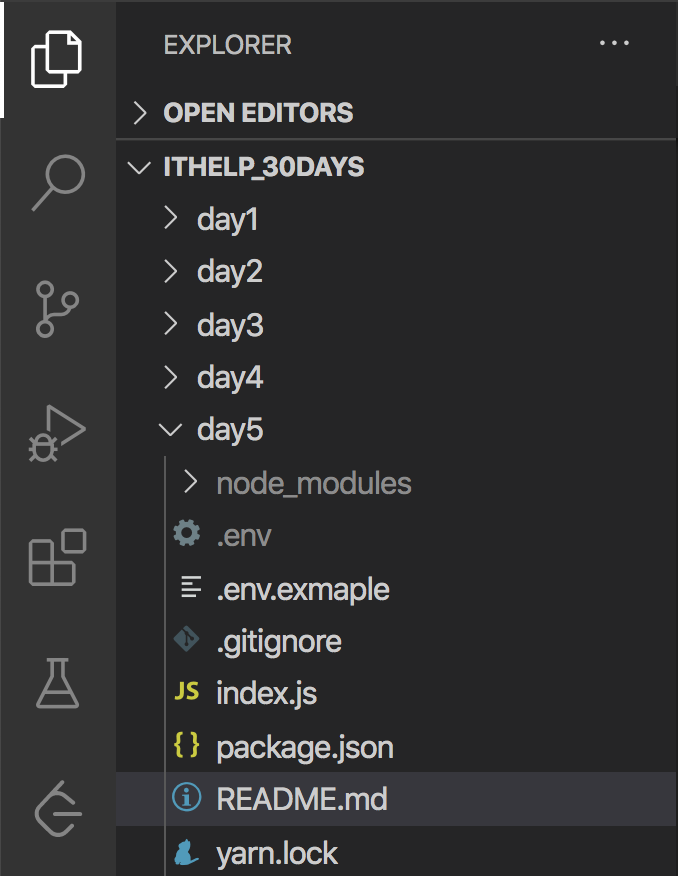
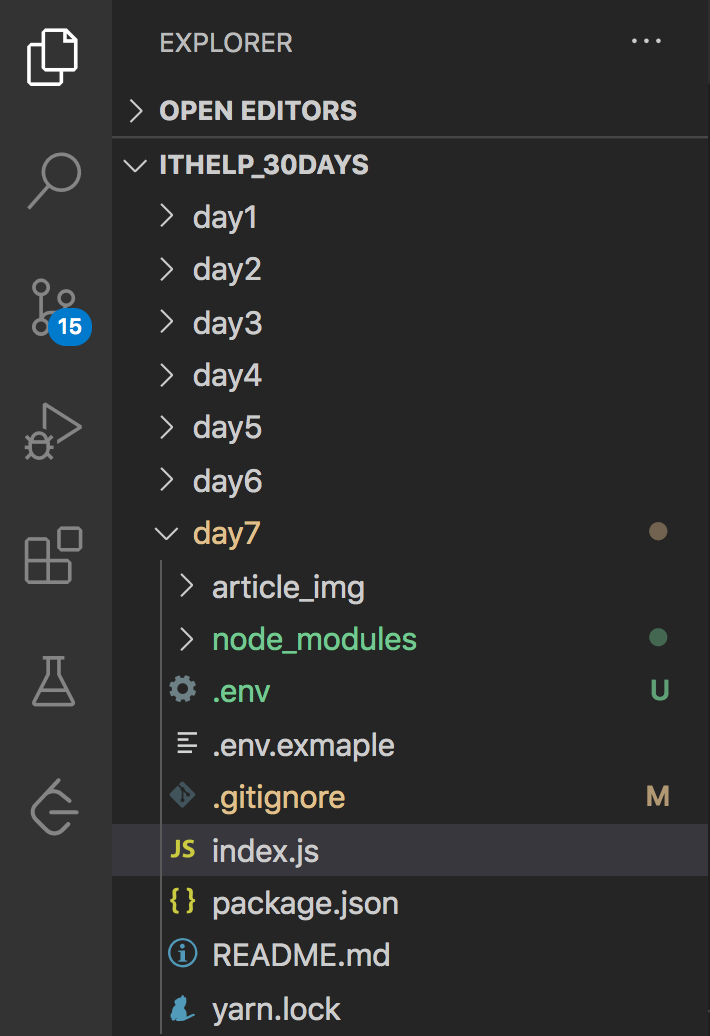
更新文字及圖

diff --git a/day7/README.md b/day7/README.md
@@ -56,12 +56,12 @@ node_modules
 🔍 透過VSCode知道是否成功將檔案加入忽略清單
 ----
 如果你也是用VSCode當成編輯器，可以用他觀察使用.gitignore的前後變化
-* 使用.gitignore前.env及node_modules會被列入變更(綠色的字代表有新增的檔案，棕色的字代表有改變的檔案)  
-    <img src="./article_img/vscode2.png" width="240" height="315"/>
-    <img src="./article_img/vscode3.png" width="240" height="330"/>  
-
-* 使用.gitignore後.env及node_modules會變成淺灰色，代表不會被列入變更  
-    <img src="./article_img/vscode1.png" width="240" height="315"/>  
+* **使用 .gitignore 前：** .env 及 node_modules 會被列入變更；`綠色的字代表有新增(U)的檔案，棕色的字代表有改變(M)的檔案`
+    <img src="./article_img/vscode1.png" width="240" height="350"/>
+* 在 `SOURCE CONTROL` 中可以看到有哪些檔案被列入變更
+    <img src="./article_img/vscode2.png" width="240" height="420"/>  
+* **使用 .gitignore 後：** .env 及 node_modules 會變成`淺灰色`，代表不會被列入變更  
+    <img src="./article_img/vscode3.png" width="240" height="350"/>  
 
 **這份忽略清單會隨著你專案的變動而調整**，如果你在撰寫其他種類程式語言可以參考[github的官網](https://github.com/github/gitignore)來調整自己的.gitignore  
 
